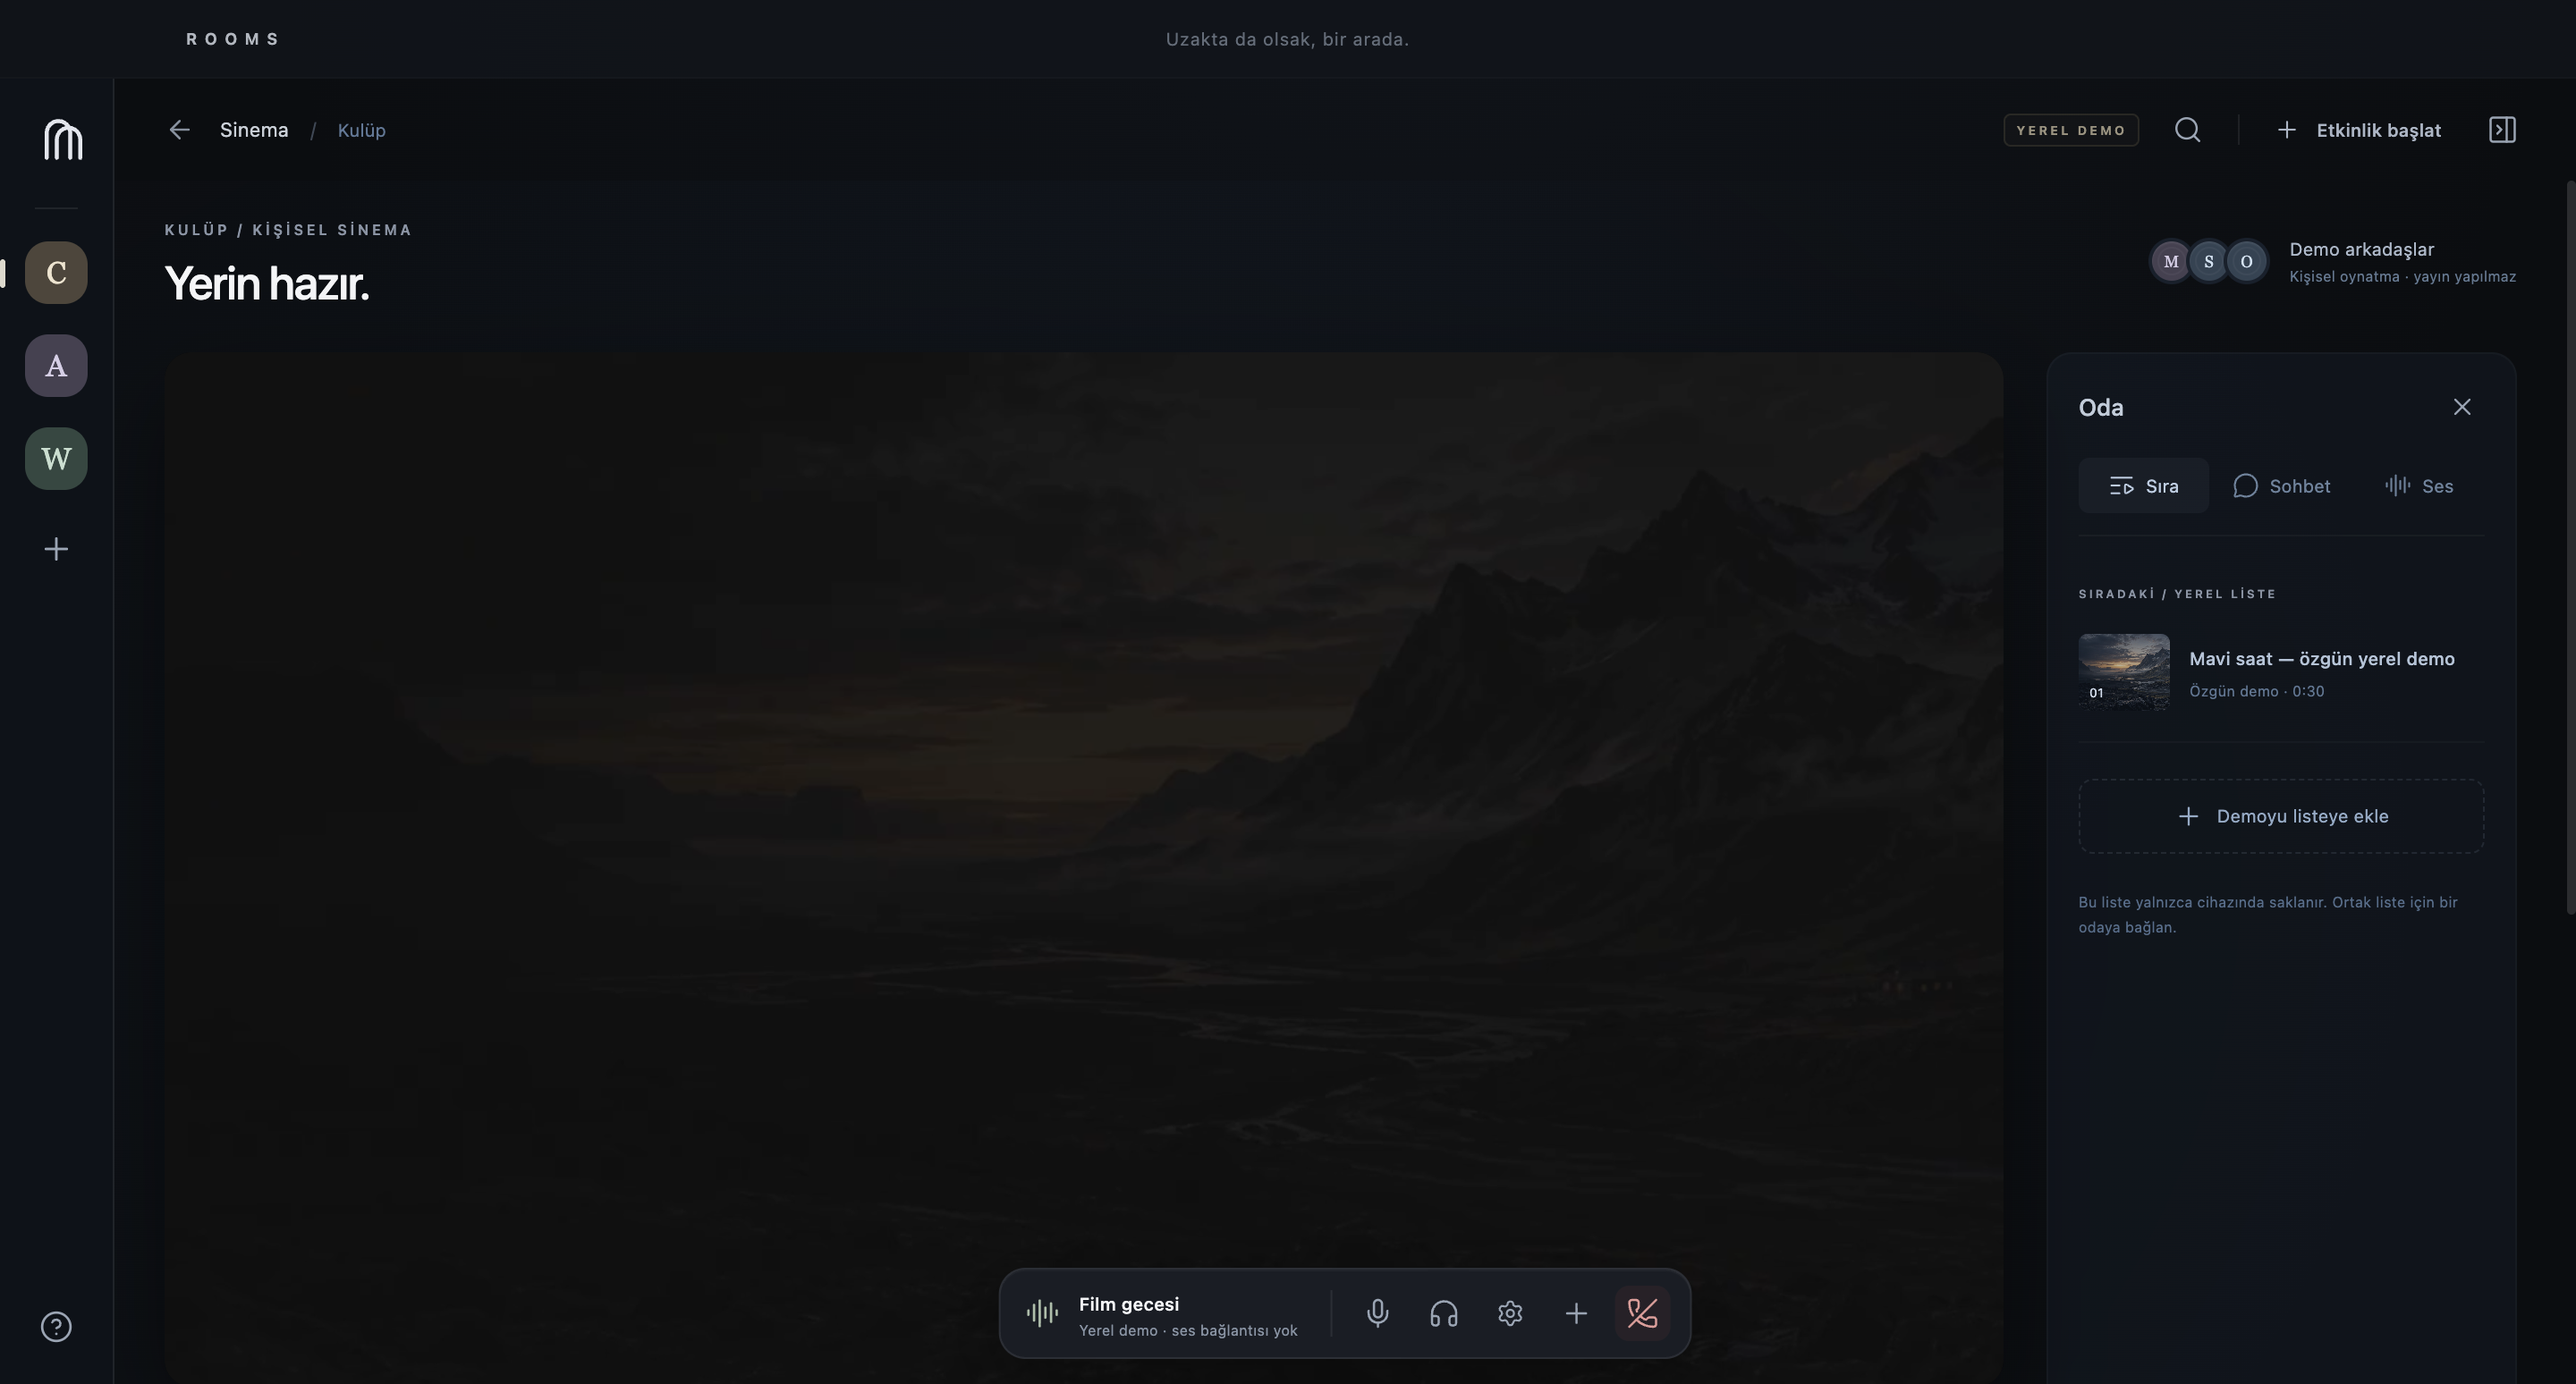
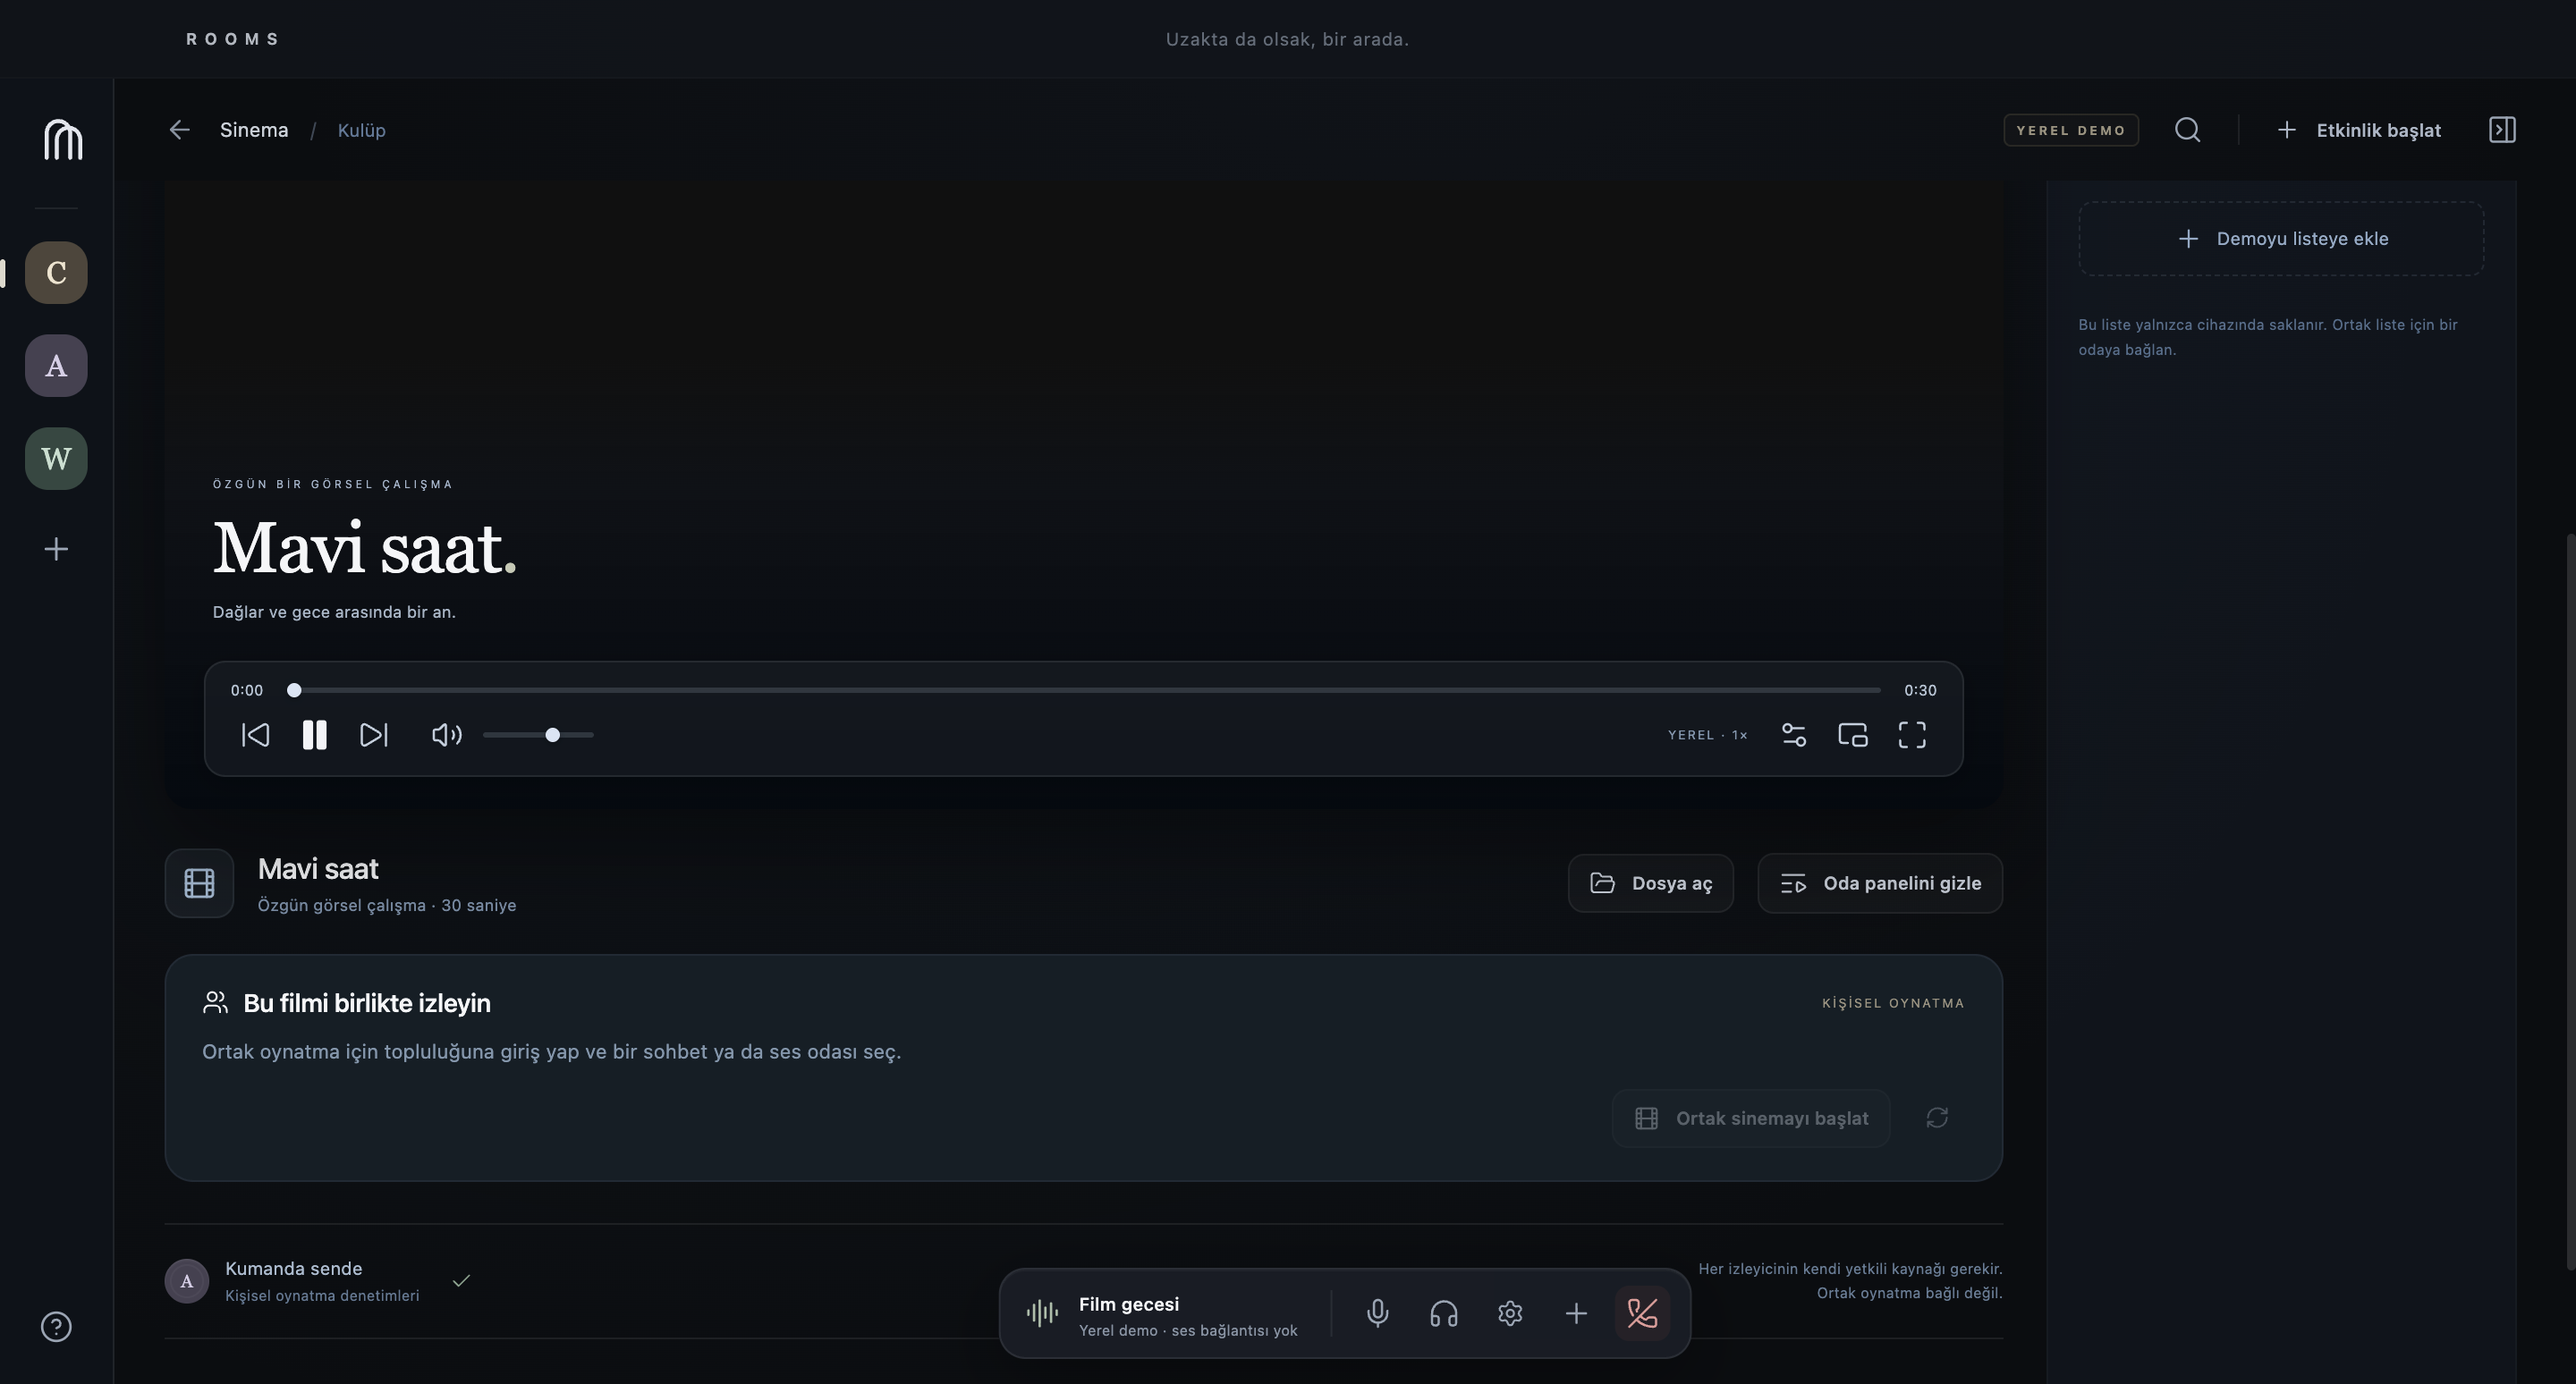
fix(youtube): preserve shared playback across clock refresh and verify recovery

diff --git a/apps/desktop/src/YouTube.tsx b/apps/desktop/src/YouTube.tsx
@@ -23,8 +23,9 @@ export default function YouTube() {
         url: string;
         nonce: string;
     } | null>(null), [ready, setReady] = useState(false), [blocked, setBlocked] = useState(false), [position, setPosition] = useState(0);
-    const frame = useRef<HTMLIFrameElement>(null), applying = useRef(0), latest = useRef(a.room);
+    const frame = useRef<HTMLIFrameElement>(null), applying = useRef(0), latest = useRef(a.room), serverOffset = useRef(a.serverOffsetMs);
     latest.current = a.room;
+    serverOffset.current = a.serverOffsetMs;
     const active = a.room?.queue.find(i => i.id === a.room?.timeline.itemId);
     const videoId = active?.media.kind === 'youtube' ? active.media.videoId : null;
     const send = useCallback((command: ActivityCommand) => void a.send(command).catch(() => { }), [a.send]);
@@ -52,15 +53,17 @@ export default function YouTube() {
         setPosition(data.positionSec);
         if (Date.now() > applying.current && latest.current?.primary?.activity === 'youtube') {
             const playing = data.state === 1;
-            if (playing !== latest.current.timeline.playing || Math.abs(data.positionSec - latest.current.timeline.positionSec) > 3)
+            const timeline = latest.current.timeline;
+            const expectedPosition = timeline.positionSec + (timeline.playing ? Math.max(0, Date.now() + serverOffset.current - timeline.effectiveServerTimeMs) / 1000 * timeline.rate : 0);
+            if (playing !== timeline.playing || Math.abs(data.positionSec - expectedPosition) > 3)
                 send({ type: 'playback', playing, positionSec: data.positionSec, rate: 1 });
         }
     } }; window.addEventListener('message', listener); return () => window.removeEventListener('message', listener); }, [player, send]);
     const synchronize = useCallback(() => { const timeline = latest.current?.timeline; if (!ready || !timeline)
-        return; applying.current = Date.now() + 1800; const expected = timeline.positionSec + (timeline.playing ? Math.max(0, Date.now() + a.serverOffsetMs - timeline.effectiveServerTimeMs) / 1000 * timeline.rate : 0); playerCommand('seek', expected); playerCommand(timeline.playing ? 'play' : 'pause'); }, [ready, playerCommand, a.serverOffsetMs]);
+        return; applying.current = Date.now() + 1800; const expected = timeline.positionSec + (timeline.playing ? Math.max(0, Date.now() + serverOffset.current - timeline.effectiveServerTimeMs) / 1000 * timeline.rate : 0); playerCommand('seek', expected); playerCommand(timeline.playing ? 'play' : 'pause'); }, [ready, playerCommand]);
     useEffect(() => { synchronize(); }, [a.room?.timeline.epoch, a.room?.timeline.effectiveServerTimeMs, synchronize]);
     useEffect(() => { if (!ready)
-        return; const timer = setInterval(() => playerCommand('position'), 1500); return () => clearInterval(timer); }, [ready, playerCommand, a.serverOffsetMs]);
+        return; const timer = setInterval(() => playerCommand('position'), 1500); return () => clearInterval(timer); }, [ready, playerCommand]);
     const add = async () => { const id = parseVideo(url.trim()); if (!id) {
         setError(tr("Ge\u00E7erli bir YouTube video adresi veya 11 karakterli video kimli\u011Fi gir."));
         return;

diff --git a/infra/production/backup.py b/infra/production/backup.py
@@ -40,6 +40,9 @@ try:
     print('Encrypted backup completed: '+str(output))
 finally:
     subprocess.run(compose+['exec','-T','database','rm','-f','/tmp/rooms-dump.yml'],stdout=subprocess.DEVNULL,stderr=subprocess.DEVNULL)
-    if started:
-        subprocess.run(compose+['start']+writers,check=True,stdout=subprocess.DEVNULL,stderr=subprocess.DEVNULL)
-    shutil.rmtree(stage)
+    try:
+        if started:
+            subprocess.run(compose+['start']+writers,check=True,stdout=subprocess.DEVNULL,stderr=subprocess.DEVNULL)
+    finally:
+        # A service restart failure must never leave plaintext credentials/dumps behind.
+        shutil.rmtree(stage)

diff --git a/docs/CONTINUATION_CHECKPOINT.md b/docs/CONTINUATION_CHECKPOINT.md
@@ -34,3 +34,7 @@ Continue through the ordered plan. Keep this checkpoint current, including actua
 On 2026-10-10 the owner disabled Astra/high delegation and requested main-agent-only implementation, including all design. AGENTS.md is updated. Existing production_onboarding subagent completed before this change; do not spawn another. Weekly usage displays 100% but ordinaryUsageAllowed was still true. One free Full reset remains available. No documented reset mutation exists and CUA explicitly blocks com.openai.codex; manual reset was requested asynchronously. Continue while allowed without claiming an automatic reset.
 
 Latest: native login/send/edit/delete/restart restore/logout and new-account invitation signup PASS after bucket-aware REST backpressure. Full build and 96 tests pass. Rebuilt access/Activity bundles are deployed and healthy. Official public YouTube sample playback, pause and seek PASS; shared synchronization is not yet accepted. The first click selector was wrong, not an actual playback failure. Unsigned Apple Silicon v0.1.1 DMG/ZIP built; actual packaged launch, current source byte matching and bundled local playback PASS. Protected six-invitation handoff exists at `.local/production/FRIENDS_ACCESS.md` (0600); never commit its contents. Next: save/push these changes and publish the clearly unsigned private preview, then real shared Activity and remaining recovery/media acceptance.
+
+Two actual native Electron clients now PASS shared official YouTube playback and pause delivery with zero renderer errors (`YOUTUBE_SHARED_RESULTS.json`). A real polling-induced seek/pause loop was corrected by keeping server clock sampling separate from the synchronization trigger; playing-state feedback now compares against elapsed authoritative position. The published unsigned v0.1.1 preview predates this fix; prepare v0.1.2 rather than replacing immutable release assets. A fresh encrypted backup completed at 01:51:10Z. Backup plaintext cleanup now runs even if writer restart fails. Next: full core reboot/recovery acceptance and v0.1.2 packaged verification.
+
+Actual full core reboot acceptance PASS at 01:54:54Z: boot ID changed, existing authenticated session survived, polls/whiteboard/queue unchanged, all 16 services and both timers recovered. Initial immediate service-state assertion was premature while startup was still converging; the verification now waits for recovery before asserting. `REBOOT_RESULTS.json` is sanitized. Unsigned v0.1.2 packaged verification PASS after the YouTube fix, and 96 tests passed again. Next: publish this patch, complete real games/lifecycle and native media acceptance, least-privilege deployment handoff and full uploads/TLS restore.

diff --git a/docs/OVERNIGHT_DEPLOYMENT_PLAN.md b/docs/OVERNIGHT_DEPLOYMENT_PLAN.md
@@ -29,8 +29,8 @@ Finish the actual product, not a demonstration or a container installation. A fr
 - [x] Run isolated Mongo/PostgreSQL restores with no published ports and no outbound network. Verify restored community/account records and Activity state, then remove only owned restore-test containers.
 - [x] Prove the authorization reader cannot read accounts/sessions or perform writes; retain sanitized evidence.
 - [x] Install the corrected backup script and daily backup timer; document the brief writer maintenance window and retention. Preserve the owner's only decryption key off-host.
-- [ ] Verify certificate reload, external port isolation, load/memory/disk and service health. Save nonsecret image-digest evidence.
-- [ ] Complete least-privilege deployment access without removing working owner access. Test restart recovery without generating new secrets or losing persisted state.
+- [x] Verify certificate reload, external port isolation, load/memory/disk and service health. Save nonsecret image-digest evidence.
+- [ ] Complete least-privilege deployment access without removing working owner access. Full core reboot acceptance passed: authenticated session, polls, whiteboard and queue survived, all 16 services and timers recovered. Least-privilege handoff remains pending.
 
 ### 2. Desktop connected to production
 
@@ -45,7 +45,8 @@ Finish the actual product, not a demonstration or a container installation. A fr
 
 - [ ] Verify two-client queue/playback state, late join, host transfer, command replay/deduplication and recovery after service restart.
 - [x] Verify real official YouTube playback, pause and seek on the public HTTPS origin.
-- [ ] Verify two-client YouTube synchronization and autoplay/blocked-video/reconnect behavior.
+- [x] Verify two actual desktop clients play the official YouTube sample and deliver shared pause with zero renderer errors.
+- [ ] Finish YouTube autoplay/blocked-video, late-join, seek and reconnect acceptance.
 - [ ] Complete real multiplayer acceptance for polls, whiteboard, Holdem, Blackjack, approved Batak variants and 101 Okey. Exercise hidden hands, bot substitution, disconnect grace, returning seats, timeout and history/statistics persistence.
 - [ ] Verify Cinema local-source authorization and screen-sharing workflow; do not distribute provider tokens or personal media URLs through shared state.
 

diff --git a/docs/IMPLEMENTATION_PROGRESS.md b/docs/IMPLEMENTATION_PROGRESS.md
@@ -83,3 +83,9 @@ The owner disabled Astra delegation; all subsequent design and engineering belon
 Native editing exposed upstream channel-bucket HTTP 429 responses after rapid read-marker traffic. The typed adapter now serializes matching REST buckets, respects bounded upstream reset metadata and only retries explicit pre-route 429 rejection. It does not retry ambiguous network or server failures. Tests cover exhausted bucket backpressure and mutation retry boundaries. `pnpm typecheck`, `pnpm test` (96 tests / 21 files), `pnpm build` and `pnpm services:build` passed. Rebuilt access and Activity bundles were deployed and healthy.
 
 The actual official YouTube documentation sample on the public HTTPS player reached playback, pause and seek. Shared synchronization remains unverified. Database restore evidence now includes persisted polls and whiteboard notes. Apple Silicon unsigned v0.1.1 DMG/ZIP built successfully; `node scripts/verify-package.mjs` passed actual packaged launch, matching bundled source and local video advancement. Developer ID, notarization, physical-device acceptance and separate Agent host remain prerequisites. Private credentials and six single-use delivery invitations are in a gitignored 0600 handoff file.
+
+## 2026-10-10 — shared playback and core reboot
+
+Two real desktop clients passed official YouTube playback and shared pause delivery with zero renderer errors. An observed polling-induced re-seek/pause loop was fixed by decoupling clock sampling from synchronization triggers and comparing state feedback against elapsed authoritative position. Unsigned v0.1.2 includes this fix and passed actual packaged launch/source matching/local video verification. The 96-test suite passed again. v0.1.1 remains an immutable earlier preview.
+
+A fresh encrypted backup completed at 01:51:10Z. Plaintext staging cleanup now survives a writer restart failure. Full core reboot acceptance passed with a changed boot ID, existing authenticated session, preserved Activity polls/whiteboard/queue, 16 running services and active backup/certificate timers. Startup service-state checks now wait for convergence; an earlier immediate assertion encountered transient startup state. Physical media reconnect is not inferred from core recovery.

diff --git a/docs/DEPLOYMENT.md b/docs/DEPLOYMENT.md
@@ -2,7 +2,7 @@
 
 The active backend is Stoat. `LEGACY_SPACEBAR_DEPLOYMENT.md` preserves the earlier environment and evidence; do not use its accounts or configuration as Stoat acceptance.
 
-Follow `infra/stoat/README.md` to generate the pinned upstream configuration and private keys, and `docs/AGENT_DEPLOYMENT.md` for the separate agent host. Build native services with `pnpm services:build`. No production host, domain or account credentials have been supplied; there is no production deployment claim.
+Follow `infra/stoat/README.md` to generate the pinned upstream configuration and private keys, and `docs/AGENT_DEPLOYMENT.md` for the separate agent host. Build native services with `pnpm services:build`. The dedicated core is deployed at `https://62.238.119.134` using a publicly trusted IP certificate. See `docs/OVERNIGHT_DEPLOYMENT_PLAN.md` and sanitized `infra/production/*_RESULTS.json` for actual acceptance and limits. The separate Agent host, personal provider/model account connections and signing identity are still unavailable. Private deployment files are under `/opt/rooms/config` on the core; do not regenerate them or expose credentials.
 
 ## Core host
 
